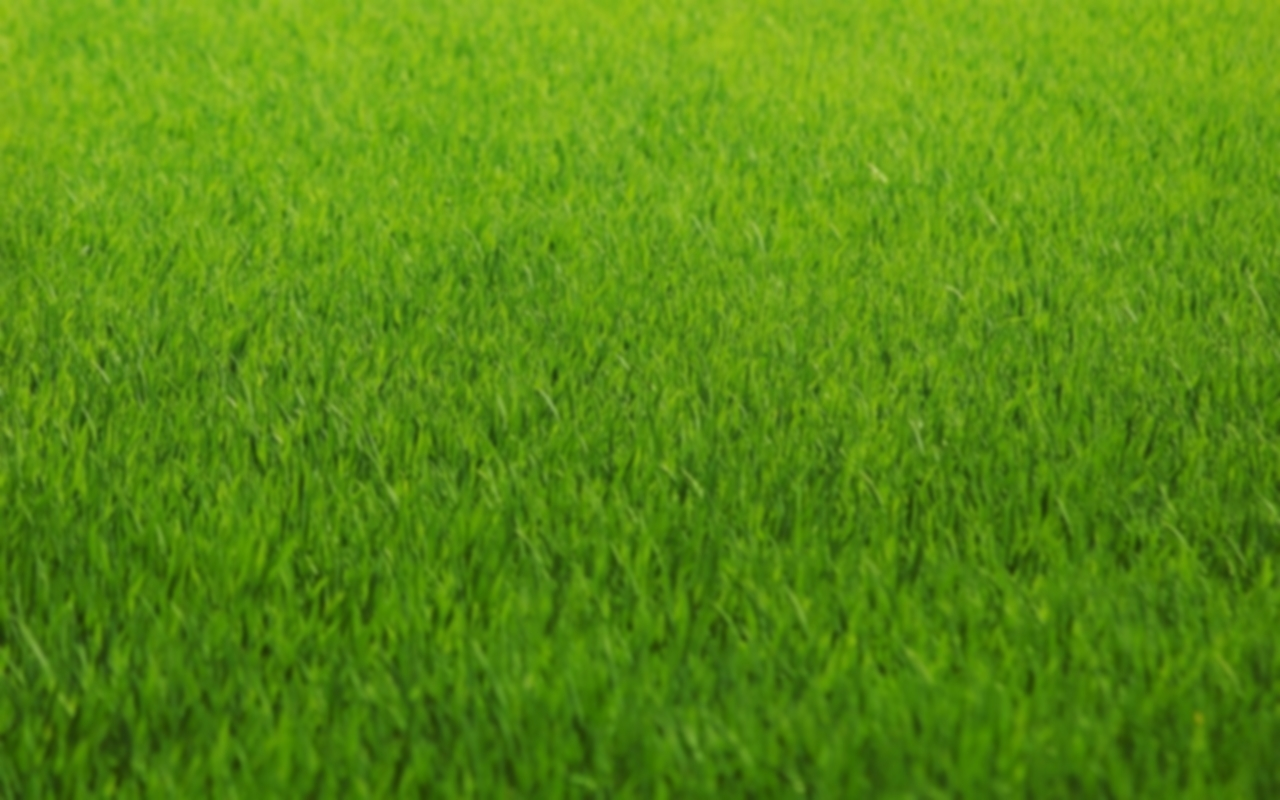
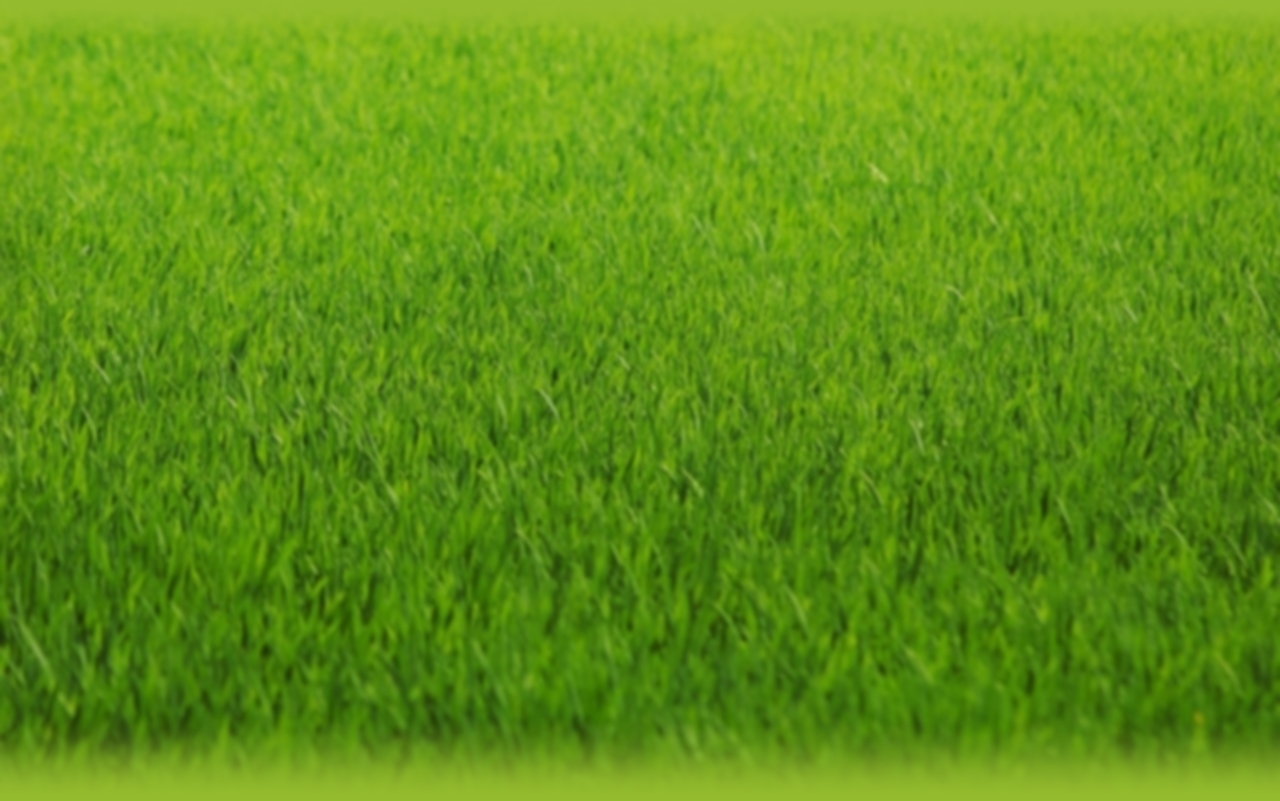
Media Semana #54 v3

diff --git a/MediaSemana/stylesmSusp.css b/MediaSemana/stylesmSusp.css
@@ -78,9 +78,7 @@ body{
     margin: auto;
     background-color: rgb(6,12,37);
     background-image: url(../fondo11.jpg);
-    background-repeat: no-repeat;
-    background-size: auto 100%;
-    background-attachment: fixed;
+    background-repeat: repeat-y;
     background-position: top;
 }
 
